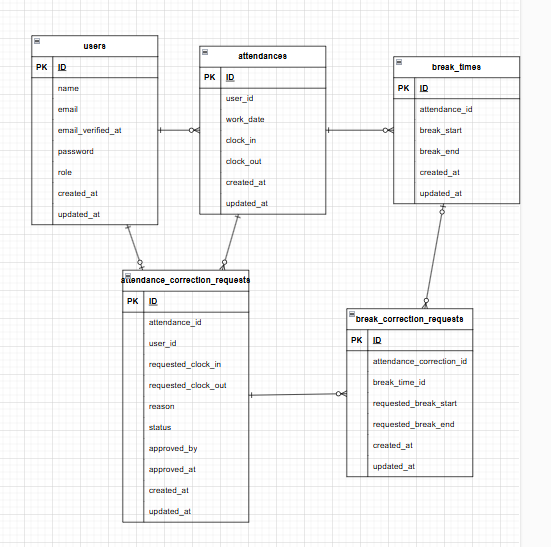
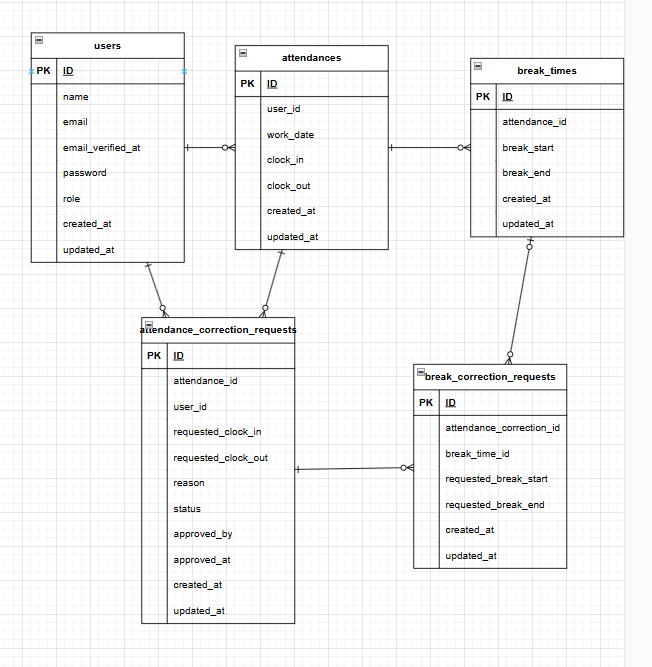
修正

Changed region(s): [[0.0309, 0.0311, 0.9564, 0.9634]]

diff --git a/src/app/Models/BreakCorrectionRequest.php b/src/app/Models/BreakCorrectionRequest.php
@@ -20,11 +20,19 @@ class BreakCorrectionRequest extends Model
         'requested_break_end' => 'datetime',
     ];
 
-     public function attendanceCorrectionRequest()
+    public function attendanceCorrectionRequest()
     {
         return $this->belongsTo(
             AttendanceCorrectionRequest::class,
             'attendance_correction_id'
+        );
+    }
+
+    public function breakTime()
+    {
+        return $this->belongsTo(
+            BreakTime::class,
+            'break_time_id'
         );
     }
 }

diff --git a/src/app/Models/User.php b/src/app/Models/User.php
@@ -41,4 +41,14 @@ class User extends Authenticatable implements MustVerifyEmail
     protected $casts = [
         'email_verified_at' => 'datetime',
     ];
+
+    public function attendances()
+    {
+        return $this->hasMany(Attendance::class);
+    }
+
+    public function attendanceCorrectionRequests()
+    {
+        return $this->hasMany(AttendanceCorrectionRequest::class);
+    }
 }

diff --git a/src/app/Models/BreakTime.php b/src/app/Models/BreakTime.php
@@ -19,4 +19,14 @@ class BreakTime extends Model
         'break_start' => 'datetime',
         'break_end' => 'datetime',
     ];
+
+    public function attendance()
+    {
+        return $this->belongsTo(Attendance::class);
+    }
+
+    public function breakCorrectionRequests()
+    {
+        return $this->hasMany(BreakCorrectionRequest::class);
+    }
 }

diff --git a/src/app/Models/Attendance.php b/src/app/Models/Attendance.php
@@ -32,4 +32,9 @@ class Attendance extends Model
     {
         return $this->hasMany(BreakTime::class);
     }
+
+    public function attendanceCorrectionRequests()
+    {
+        return $this->hasMany(AttendanceCorrectionRequest::class);
+    }
 }
